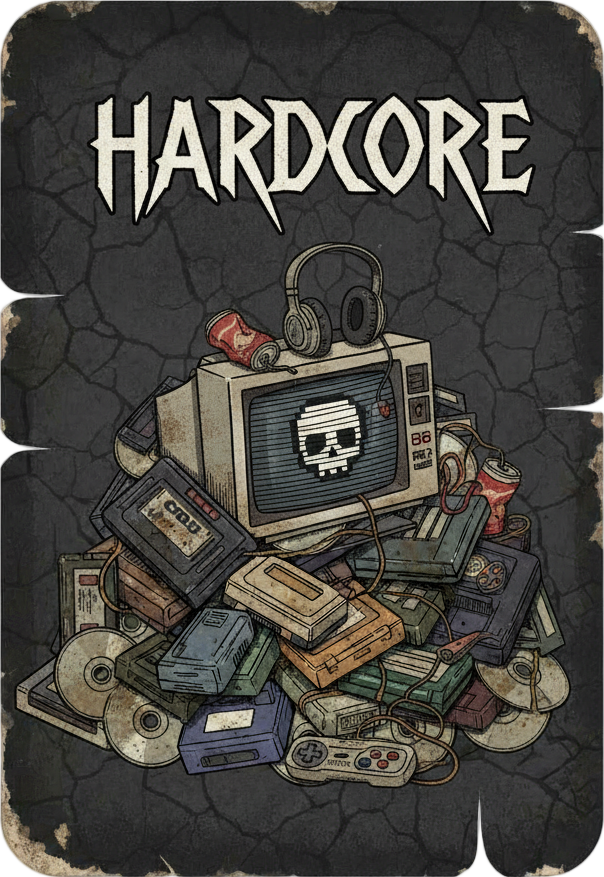
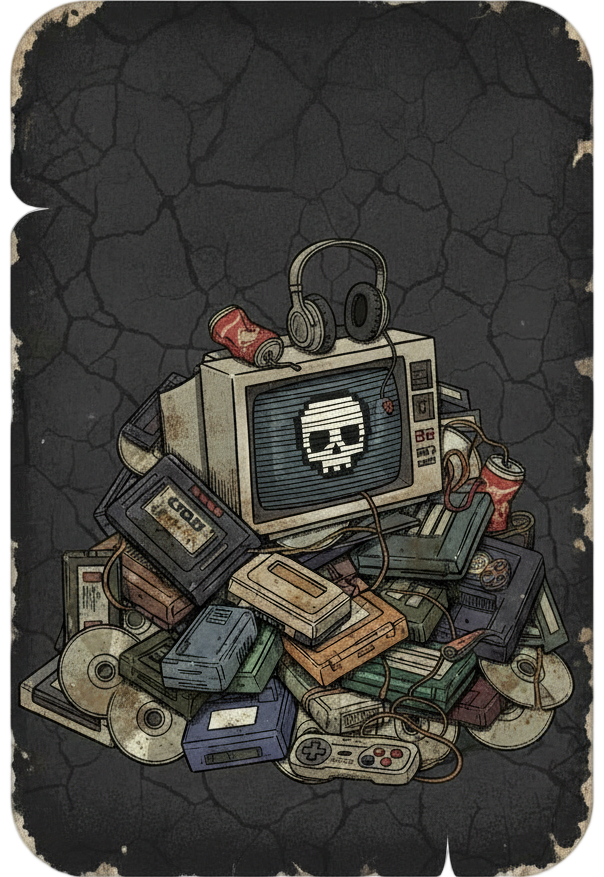
cleaned cards, fixed card layout, fixed a price 0 bug

diff --git a/flet_gui.py b/flet_gui.py
@@ -4,6 +4,7 @@ import webbrowser
 from flet import FontWeight, RoundedRectangleBorder
 import flet as ft
 import flet_charts as ftc  # Import flet-charts
+from flet.controls.border_radius import vertical
 
 import reaper_backend as br
 import agent
@@ -88,6 +89,7 @@ def create_game_card(game_data):
     #bg_image = f"https://cdn.cloudflare.steamstatic.com/steam/apps/{appid}/header.jpg" if appid else ""
 
     bg_image = None
+    theme = None
     bg_opacity = 0.30
     card_width = 270
     tint_color = ft.Colors.TRANSPARENT #tint_color = "#1a1a1a"
@@ -133,13 +135,23 @@ def create_game_card(game_data):
                     expand=True  # Allows text to take available space before cutting off
                 ),
             ],
+            margin=ft.Margin(5,5,5,0),
             alignment=ft.MainAxisAlignment.START
         )
     )
     # Add the divider as a separate item in the COLUMN, not the Row
     controls_list.append(ft.Divider(height=1, thickness=1))
 
-    controls_list.append(ft.Row(height=45))  # Spacer after name and horizontal row
+    # Add theme subtitle for roast
+    # if theme and bg_image:
+    #     controls_list.append(
+    #         ft.Row(
+    #             controls=[
+    #                 ft.Text(str(theme), italic=True, size=15, color=ft.Colors.GREY_800),
+    #             ],
+    #             margin=ft.Margin(5, 0, 5, 0)
+    #         )
+    #     )
 
     # LOOP THROUGH THE REST
     for title, content in game_data.items():
@@ -153,6 +165,7 @@ def create_game_card(game_data):
                 controls=[
                     ft.Text(str(content), italic=True, size=12, color=ft.Colors.BLUE_GREY),
                 ],
+                margin=ft.Margin(5, 0, 5, 0),
                 wrap=True  # Allow comments to wrap to next line if long
             )
             controls_list.append(row)
@@ -173,6 +186,7 @@ def create_game_card(game_data):
                     ft.Text(str(content), color=ft.Colors.GREY, expand=True),  # expand prevents overflow push
                 ],
                 alignment=ft.MainAxisAlignment.START,
+                margin=ft.Margin(5, 0, 5, 0),
                 vertical_alignment=ft.CrossAxisAlignment.START  # Aligns text to top if content wraps
             )
             controls_list.append(row)
@@ -195,7 +209,8 @@ def create_game_card(game_data):
                         on_click=lambda e, a=appid: launch_game(a)
                     )
                 ],
-                alignment=ft.MainAxisAlignment.END  # Aligns right
+                alignment=ft.MainAxisAlignment.END,
+                vertical_alignment=ft.CrossAxisAlignment.END
             )
         )
     else: # Launch Button
@@ -211,7 +226,8 @@ def create_game_card(game_data):
                         on_click=lambda e, a=appid: launch_game(a)
                     )
                 ],
-                alignment=ft.MainAxisAlignment.END  # Aligns right
+                alignment=ft.MainAxisAlignment.END,
+                vertical_alignment=ft.CrossAxisAlignment.END
             )
         )
 

diff --git a/reaper_backend.py b/reaper_backend.py
@@ -473,16 +473,16 @@ def get_global_game_info(game_name, appid=None):
 
     def fmt_price(p):
         try:
-            if p is None: return "0.00"
+            if p is None: return "N/A"
             val = int(p)
-            if val == 0: return "Free"
+            if val == 0: return "N/A"
             return f"{val / 100:.2f}"
         except:
             return str(p)
 
     # Default price values
     price_data = {}
-    final_formatted = fmt_price(game_info.get('price', 0))
+    final_formatted = fmt_price(game_info.get('price', "N/A"))
     initial_formatted = fmt_price(game_info.get('initialprice', 0))
     discount_percent = game_info.get('discount', 0)
 
@@ -1628,5 +1628,5 @@ def get_user_wishlist(sort_by='recent', page=0, page_size=10):
 
 
 if __name__ == "__main__":
-    print(get_achievement_stats(game_name="akane"))
+    print(get_batch_game_details(game_names=["Jackal"]))
     #print(get_webpage("https://www.reddit.com/r/Helldivers/comments/1n773qh/dragonroach_is_ridiculous_and_whoever_designed_it/"))

diff --git a/agent_tools.py b/agent_tools.py
@@ -53,7 +53,13 @@ If the user asks to "roast my library", "judge me" or your current PERSONA would
 1. Call the tool `get_library_stats` to get the raw data.
 2. Output a JSON card with the following specific format:
    - `appid`: "ROAST" (This triggers the special background/card).
-   - `bg_theme`: use one of the following; HOARDER, CASUAL, BROKE, HARDCORE, ABANDONED, DEFAULT. It will be used do draw a specific themed background for your roast.
+   - `bg_theme`: draws a specific themed card background for your roast; use one of the following; 
+      HOARDER (game pile card background)
+      CASUAL (a casual chilling)
+      BROKE (a broke gamer),
+      HARDCORE (games pile, monitor on top with pixelated skull)
+      ABANDONED (Tombstone and NES pad)
+      DEFAULT (dark card background)
    - `name`: A creative title (e.g., "The Pile of Shame", "Financial Ruin").
    - `comment`: A brutal, short roast of their spending habits.
    - **Custom Stats:** Map the data you got to creative labels. 
